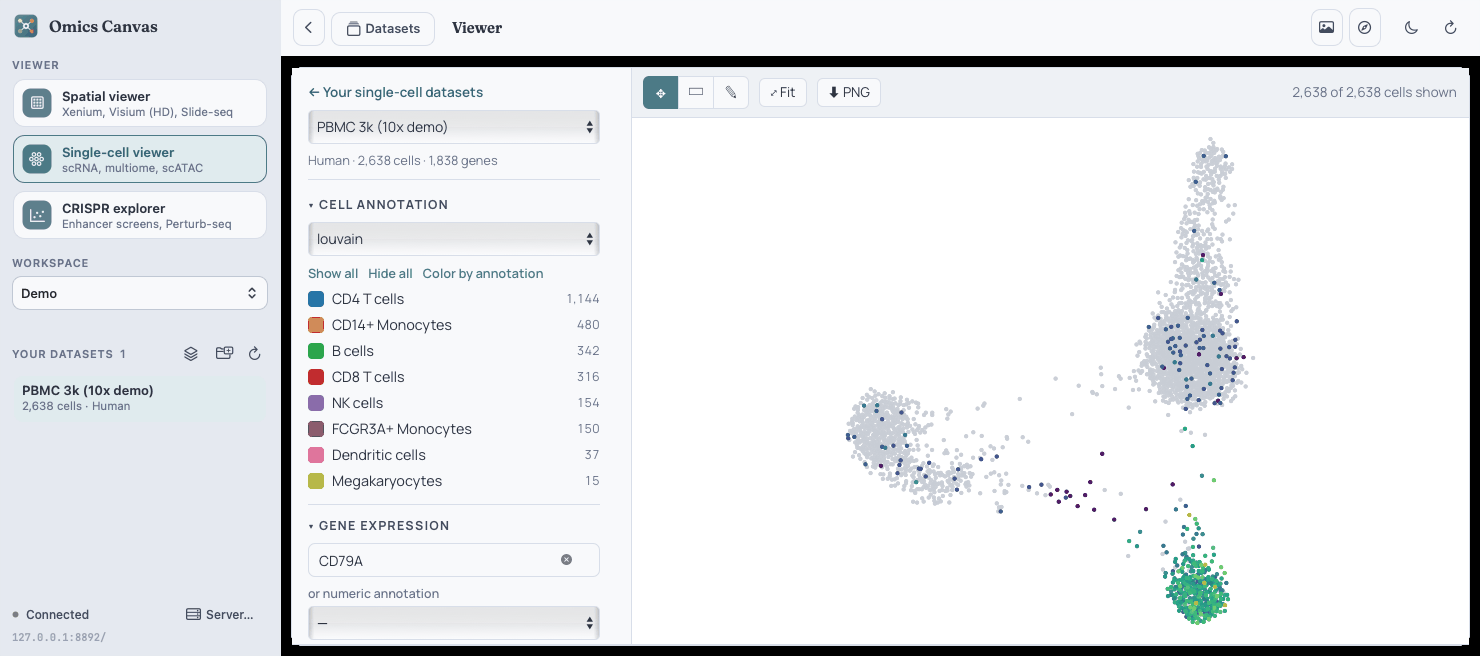
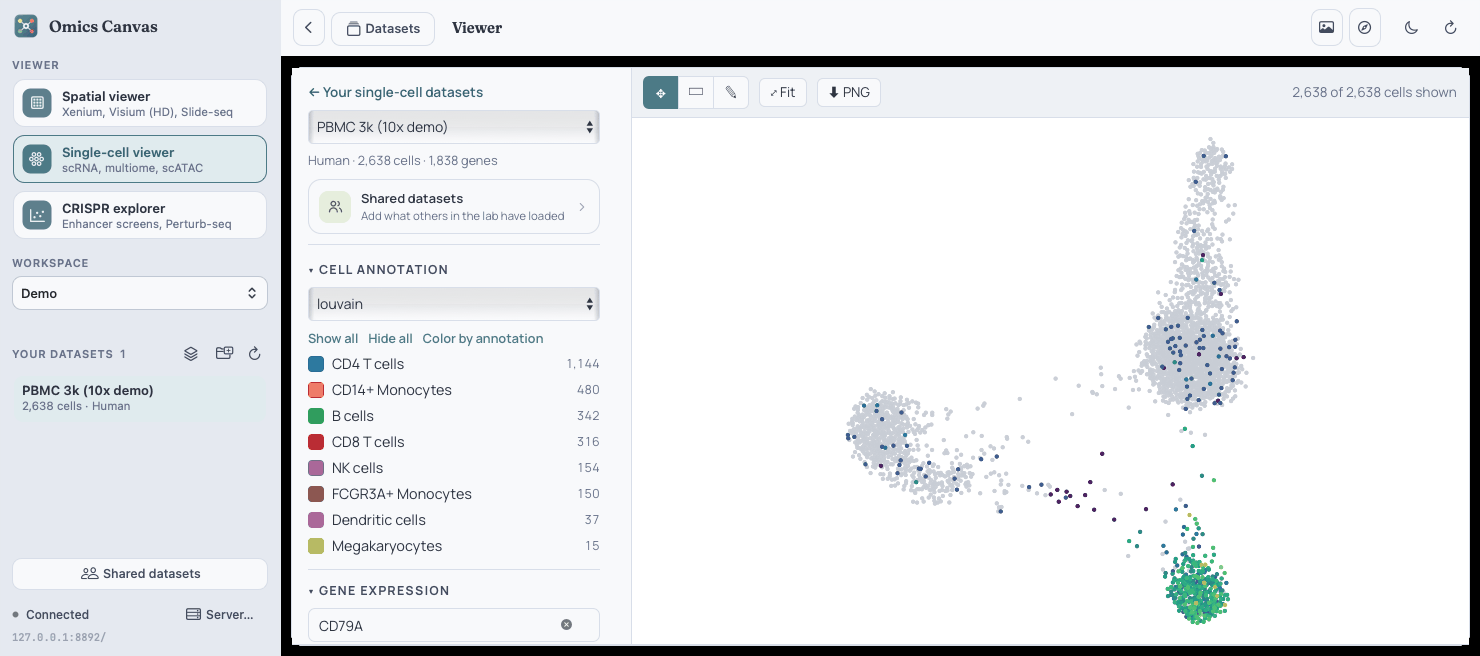
Tutorial: shared data section, new screenshots
A "Shared data" section (6) explains Shared datasets / Shared screens and Genome
Canvas's Shared tracks: where the buttons are, adding and loading, the "Not in
my workspace" / "Only hg38" / "Not in this view" switches, Shared by you and
Unshare, and how the lists follow the files. New screenshots (public data, a
temporary Tutorial workspace): the viewer card, the dialog, Shared tracks; the
home page and dataset list refreshed; the Mac app shots re-taken on CI with
the new sidebar buttons. README notes that everything added is listed for the
lab.

diff --git a/docs/TUTORIAL.md b/docs/TUTORIAL.md
@@ -3,21 +3,23 @@
 Omics Canvas puts the lab's genomics data on one server page: **Genome Canvas** (genome browser), the **spatial
 viewer**, the **single-cell viewer** and the **CRISPR explorer**. Each works in the browser and in a Mac app. This guide
 shows every module with screenshots of public data (10x Genomics Visium human heart and PBMC 3k, CELLxGENE human arterial
-atlas and mouse SMC time course, IGVF HCASMC CRISPR screens).
+atlas and mouse SMC time course, IGVF HCASMC CRISPR screens, UCSC hg38 annotation tracks).
 
 - [1. Getting started](#1-getting-started)
 - [2. Genome Canvas](#2-genome-canvas)
 - [3. Spatial viewer](#3-spatial-viewer)
 - [4. Single-cell viewer](#4-single-cell-viewer)
 - [5. CRISPR explorer](#5-crispr-explorer)
-- [6. Adding and managing data](#6-adding-and-managing-data)
-- [7. Mac apps](#7-mac-apps)
-- [8. Tips](#8-tips)
+- [6. Shared data](#6-shared-data)
+- [7. Adding and managing data](#7-adding-and-managing-data)
+- [8. Mac apps](#8-mac-apps)
+- [9. Tips](#9-tips)
 
 ## 1. Getting started
 
 Open **http://171.65.68.140:8892** (THOR; from outside Stanford connect the VPN first). The home page links the four
-modules and shows how many datasets your workspace has in each.
+modules and shows how many datasets your workspace has in each (*yours*) and how many the lab shares
+([section 6](#6-shared-data)).
 
 ![Home page, light and dark](images/hub.png)
 
@@ -37,11 +39,8 @@ modules and shows how many datasets your workspace has in each.
   hg19, mm39, mm10, rn7, danRer11, dm6, sacCer3, or **Reference** for your own FASTA / 2bit).
 - **Add tracks**: **Open server files** browses `/nfs` without uploading (BAM, CRAM, VCF, BigWig, BigBed, BED, BEDPE
   loops, Hi-C, GWAS / QTL summary statistics with LD, GTF, SEG, MAF …; index files are found automatically).
-  **Shared tracks** lists every server file anyone in the lab has loaded (name, folder, format, genome, who loaded
-  it): filter, tick and **Load selected tracks**, with no path to look for. **Only hg38** (the genome in view) and
-  **Not in this view** (leaves out the tracks you have open) are on by default. Files in Home folders are not listed;
-  deleted or moved files drop off the list by themselves, rewritten ones show their new date, and **×** on a file you
-  shared first takes it off the list.
+  **Shared tracks** lists every server file anyone in the lab has loaded — tick and load them without looking for
+  their paths ([section 6](#6-shared-data)).
   **Public data** searches ENCODE, GTEx, Roadmap and 4DN hubs or takes a UCSC / WashU hub URL or any track URL.
 - **Arrange**: drag the six-dot grip to reorder tracks; right-click a track for color, height, data range and display
   mode; remove it in the track list on the left. Assay colors are automatic and stay the same in both themes.
@@ -57,7 +56,7 @@ modules and shows how many datasets your workspace has in each.
 ## 3. Spatial viewer
 
 `/spatial/` — tissue sections: Xenium, Visium / Visium HD, Slide-seq, spatial ATAC and other data with cell or spot
-coordinates. Without a dataset in the address the page lists your datasets ([section 6](#6-adding-and-managing-data)).
+coordinates. Without a dataset in the address the page lists your datasets ([section 7](#7-adding-and-managing-data)).
 
 ![Visium heart: clusters over the H&E image](images/spatial-he.jpg)
 
@@ -124,19 +123,52 @@ p-value table. The menu at the top switches screens (combined screens are listed
 - Click a target (plot or table); **Knockdown confirmed only** keeps targets whose own expression dropped.
 - **Find a gene** shows which perturbations change that gene; **Download all … results (CSV)** saves a target's table.
 
-## 6. Adding and managing data
+## 6. Shared data
 
-Each viewer's page without a dataset (`/spatial/`, `/single-cell/`, `/crispr/`) manages its datasets.
+Everything anyone in the lab has loaded is listed for everyone, so you can open what a colleague already converted or
+found without asking for its path. There is one list per module: **Shared tracks** in Genome Canvas, and **Shared
+datasets** (**Shared screens** in the CRISPR explorer) in the other three. Nothing is copied: you add the same files
+to your own list.
 
-**Shared datasets** (**Shared screens** in the CRISPR explorer) — the button next to *Datasets* here, under the dataset
-picker in the spatial and single-cell viewers, and next to the screen picker in the CRISPR explorer; the number is how
-many you do not have yet. It opens the lab's list in the style of Genome Canvas's Shared tracks: every dataset anyone
-has loaded, converted or combined in this viewer, with its contents, who shared it and its source. Tick some and
-**Add selected** (in a viewer: **Add & open**) — nothing is copied or converted again; *open* looks at one first.
-**Not in my workspace** (on by default) leaves out what you already have. The list follows the files: a dataset whose
-converted files were deleted disappears, one converted again or renamed by the person who added it is updated, and a
-conversion whose source file changed since is marked *source changed* (select the source under **Add data** to convert
-it again). **Shared by you** lists your own, with **Unshare**. The home page counts shared datasets on each card.
+**Shared datasets** — in the spatial and single-cell viewers the card under the dataset picker, in the CRISPR explorer
+the button next to the screen picker, and on each dataset page the button next to *Datasets*. The number on it is how
+many shared datasets you do not have yet.
+
+![The Shared datasets card in the single-cell viewer](images/shared-card.png)
+
+It lists every dataset anyone has loaded, converted or combined in this viewer: name and source folder, contents
+(cells, samples, screen type), who shared it (+ how many others use it) and when it last changed.
+
+![Shared screens in the CRISPR explorer: one screen ticked](images/shared-dialog.png)
+
+- Tick one or more and **Add selected** — in a viewer **Add & open**, which opens the first one. They join your
+  workspace at once: nothing is copied, nothing is converted again. *open* at the end of a row looks at a dataset
+  first, through its owner's link.
+- **Not in my workspace** (on by default, like *Only hg38* in Genome Canvas) leaves out what you already have. Switch
+  it off to see those too: they are greyed out and marked *in yours*.
+- Filter by name, person, technology or path; **Select shown** / **Clear all** work on what is shown.
+- **Shared by you** (at the bottom) lists what you added first; **Unshare** takes one off the list for the others
+  (your own dataset stays, and it is shared again if you add it again).
+
+**Shared tracks** (Genome Canvas) — the card under **Open server files** lists every file loaded from the shared server
+folders, with its folder, format, genome and who loaded it. Tick and **Load selected tracks**. **Only hg38** (the
+genome in view) and **Not in this view** (the tracks you have open) are on by default. Files in Home folders are never
+listed; **×** on a file you shared first takes it off the list.
+
+![Shared tracks in Genome Canvas: CpG islands is in view, so only the other three are listed](images/genome-canvas-shared-tracks.png)
+
+**The lists follow the files.** They are checked whenever they are opened and every hour:
+
+- a dataset whose converted files were deleted, or a track whose file was deleted or moved, disappears;
+- a dataset converted again, or renamed or given new samples by the person who added it, shows the new version;
+  a rewritten track shows its new date;
+- a conversion whose source file changed afterwards is marked *source changed* (select the source under **Add data** to
+  convert it again), one whose source was deleted *source removed* (it still opens).
+
+## 7. Adding and managing data
+
+Each viewer's page without a dataset (`/spatial/`, `/single-cell/`, `/crispr/`) manages its datasets. **Shared
+datasets** next to *Datasets* opens the lab's list ([section 6](#6-shared-data)).
 
 **Add data** — browse `/nfs` (or paste a path) and select a file or folder; the right side says what it is and how
 it will be read.
@@ -167,7 +199,7 @@ dataset with one link and a sample picker. Order and rename the samples; nothing
 The list shows combined datasets and multi-sample projects as groups: the arrow opens their samples, and the datasets
 that went into a combined one are listed there (with their own **Rename** / **Remove**).
 
-![The dataset list with an expanded group](images/manager-list.png)
+![The dataset list with an expanded project and the Shared datasets button](images/manager-list.png)
 
 - **Edit samples** changes a combined dataset later — and the samples of existing projects (e.g. drop or rename a
   section); a project folder itself is not changed, **Restore the folder's samples** undoes it.
@@ -175,7 +207,7 @@ that went into a combined one are listed there (with their own **Rename** / **Re
   you may also delete the `.vizhub` folder (kept while a combined dataset or another workspace uses it). Source data is
   never deleted.
 
-## 7. Mac apps
+## 8. Mac apps
 
 Download from the [latest release](https://github.com/QuertermousLab/omics-canvas/releases/latest) — Apple Silicon
 (`…-macOS-arm64.zip`) or Intel (`…-macOS-x86_64.zip`), unzip, move to Applications and run once in Terminal
@@ -212,12 +244,13 @@ opens with a click. Right-click a dataset for **Open**, **Edit Samples…**, **R
 - Genome Canvas links (from the CRISPR explorer) open in **Genome Canvas.app** when it is installed — in place if it
   is already open, keeping its tracks — otherwise in your browser.
 
-## 8. Tips
+## 9. Tips
 
 - **Share** any view by copying the address: dataset, sample (`?s=`), gene (`?gene=`) and CRISPR selection are in it.
 - **Figures**: every PNG export has a transparent background; set the plot background under *Display* to preview it.
-- **No login**: anyone who can reach port 8892 can open dataset links; workspaces keep lists tidy, they are not
-  access control. Do not add data that must stay private.
+- **No login**: anyone who can reach port 8892 can open dataset links, and every dataset you add (and every server file
+  you load in Genome Canvas outside your Home folder) is listed under Shared for the whole lab; workspaces keep lists
+  tidy, they are not access control. Do not add data that must stay private.
 - **Large data**: 50–100 GB fragment files take hours; the conversion card shows an estimate. Uncheck the fragment files
   under *Advanced* for a quick first look.
 - **Problems**: a conversion card's **Show log** has the converter's message; the dataset page of each viewer lists

diff --git a/README.md b/README.md
@@ -18,7 +18,7 @@ Downloads (Apple Silicon / Intel): [Genome Canvas](https://github.com/Quertermou
 ([Intel](https://github.com/QuertermousLab/omics-canvas/releases/latest/download/OmicsCanvasDesktop-macOS-x86_64.zip)).
 The apps are ad-hoc signed: after unzipping, run `xattr -dr com.apple.quarantine "/Applications/<App>.app"` once.
 
-**How to use it: [docs/TUTORIAL.md](docs/TUTORIAL.md)** — all four modules, data management and the Mac apps, with
+**How to use it: [docs/TUTORIAL.md](docs/TUTORIAL.md)** — all four modules, shared data, data management and the Mac apps, with
 screenshots.
 
 ## Lab server deployment (THOR)
@@ -68,8 +68,10 @@ omics-canvas/            (on THOR: /nfs/baldar/quanyiz/vizhub)
   image tiles carry alpha, so they look the same as before on black and stay transparent elsewhere.
 - Datasets and conversions belong to a **workspace** — Genome Canvas's password-free workspaces (one per /home user,
   plus named ones). The chip in the top bar reads and sets Genome Canvas's selection through its API, so choosing a
-  workspace in either app chooses it in both. Each workspace sees, renames and removes only its own datasets; a dataset
-  link opens for anyone (marked "shared by …" in the viewer's list). Like Genome Canvas this is not access control.
+  workspace in either app chooses it in both. Each workspace lists, renames and removes only its own datasets; a dataset
+  link opens for anyone (marked "shared by …" in the viewer's list), and everything any workspace adds is listed for the
+  lab under **Shared datasets** / **Shared tracks** (see below and [the tutorial](docs/TUTORIAL.md#6-shared-data)). Like
+  Genome Canvas this is not access control.
 - The hub backend stores `owner` / `ownerName` on every dataset and job (`state/registry.json`, `state/jobs.json`) and
   takes the workspace from the `X-Vizhub-Workspace` header, checked against Genome Canvas's `/api/workspaces`.
 

diff --git a/genome-canvas/README.md b/genome-canvas/README.md
@@ -308,7 +308,7 @@ Remote descriptors and track files must allow cross-origin browser access with C
 
 ## Security Boundary
 
-This is a LAN tool, not a multi-user account system. The backend only serves files within `dataRoots` and blocks path traversal. Any authenticated web user can read supported tracks visible in those roots. Do not expose the service directly to the public internet; use a VPN, reverse-proxy authentication, or firewall controls in sensitive environments.
+This is a LAN tool, not a multi-user account system. The backend only serves files within `dataRoots` and blocks path traversal. Any authenticated web user can read supported tracks visible in those roots, and every file a workspace loads from a shared root (not from a Home folder) is listed for all workspaces under Shared tracks. Do not expose the service directly to the public internet; use a VPN, reverse-proxy authentication, or firewall controls in sensitive environments.
 
 ## Verification
 
